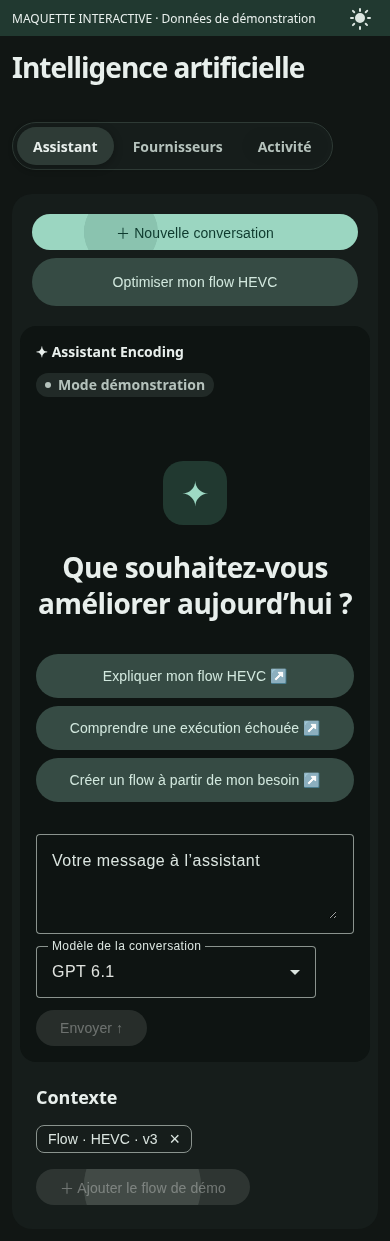
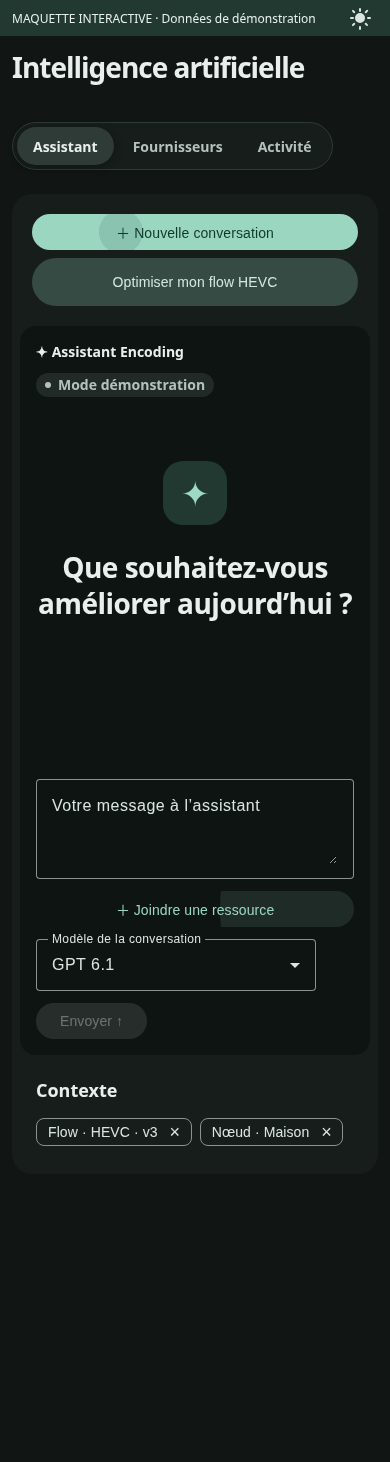
design(ai): replace suggestions with resource attachment picker

diff --git a/frontend/mockups/ai/mockup.html b/frontend/mockups/ai/mockup.html
@@ -49,13 +49,6 @@
                 <div class="spark">✦</div>
                 <h2>Que souhaitez-vous<br />améliorer aujourd’hui ?</h2>
               </div>
-              <div class="suggestions">
-                @for (suggestion of suggestions; track suggestion) {
-                  <button matButton="tonal" (click)="prompt.set(suggestion)">
-                    {{ suggestion }} ↗
-                  </button>
-                }
-              </div>
             } @else {
               <div class="bubble user">Comment optimiser mon flow HEVC sans perdre le HDR ?</div>
               <article class="answer">
@@ -93,6 +86,51 @@
                 (ngModelChange)="prompt.set($event)"
               ></textarea>
             </mat-form-field>
+            <button
+              matButton="text"
+              type="button"
+              [attr.aria-expanded]="resourcePickerOpen()"
+              aria-controls="resource-picker"
+              (click)="resourcePickerOpen.set(!resourcePickerOpen())"
+            >
+              ＋ Joindre une ressource
+            </button>
+            @if (resourcePickerOpen()) {
+              <section
+                id="resource-picker"
+                class="resource-picker"
+                aria-label="Joindre une ressource"
+              >
+                <mat-form-field appearance="outline" subscriptSizing="dynamic">
+                  <mat-label>Ressource</mat-label>
+                  <mat-select
+                    name="resource"
+                    [ngModel]="selectedResource()"
+                    (ngModelChange)="selectedResource.set($event)"
+                  >
+                    @for (group of resourceGroups; track group.label) {
+                      <mat-optgroup [label]="group.label">
+                        @for (resource of group.resources; track resource.id) {
+                          <mat-option
+                            [value]="resource.id"
+                            [disabled]="attachedResources().includes(resource.id)"
+                            >{{ resource.label }}</mat-option
+                          >
+                        }
+                      </mat-optgroup>
+                    }
+                  </mat-select>
+                </mat-form-field>
+                <button
+                  matButton="tonal"
+                  type="button"
+                  [disabled]="!selectedResource()"
+                  (click)="attachResource()"
+                >
+                  Joindre
+                </button>
+              </section>
+            }
             <div class="compose-actions">
               <mat-form-field appearance="outline" subscriptSizing="dynamic"
                 ><mat-label>Modèle de la conversation</mat-label
@@ -116,16 +154,18 @@
         <aside class="context">
           <h2>Contexte</h2>
           <mat-chip-set aria-label="Ressources attachées">
-            @if (context()) {
-              <mat-chip (removed)="context.set(false)"
-                >Flow · HEVC · v3<button matChipRemove aria-label="Retirer le flow du contexte">
+            @for (id of attachedResources(); track id) {
+              <mat-chip (removed)="removeResource(id)"
+                >{{ resourceLabel(id)
+                }}<button matChipRemove [attr.aria-label]="'Retirer ' + resourceLabel(id)">
                   ×
                 </button></mat-chip
               >
-            }</mat-chip-set
-          ><button matButton="tonal" [disabled]="context()" (click)="context.set(true)">
-            ＋ Ajouter le flow de démo
-          </button>
+            }
+          </mat-chip-set>
+          @if (!attachedResources().length) {
+            <p>Aucune ressource jointe</p>
+          }
         </aside>
       </div>
     }

diff --git a/frontend/mockups/ai/main.ts b/frontend/mockups/ai/main.ts
@@ -34,7 +34,42 @@ class AiMockup {
   readonly notice = inject(NotificationService);
   readonly tab = signal('assistant');
   readonly started = signal(false);
-  readonly context = signal(true);
+  readonly resourcePickerOpen = signal(false);
+  readonly selectedResource = signal('');
+  readonly attachedResources = signal<string[]>(['flow-hevc']);
+  readonly resourceGroups = [
+    {
+      label: 'Flows',
+      resources: [
+        { id: 'flow-hevc', label: 'Flow · HEVC · v3' },
+        { id: 'flow-audio', label: 'Flow · Normalisation audio · v1' },
+      ],
+    },
+    {
+      label: 'Nœuds',
+      resources: [
+        { id: 'node-maison', label: 'Nœud · Maison' },
+        { id: 'node-worker', label: 'Nœud · Worker GPU' },
+      ],
+    },
+    { label: 'Bibliothèques', resources: [{ id: 'library-films', label: 'Bibliothèque · Films' }] },
+    { label: 'Exécutions', resources: [{ id: 'execution-1042', label: 'Exécution · #1042' }] },
+  ];
+  resourceLabel(id: string) {
+    return (
+      this.resourceGroups.flatMap((group) => group.resources).find((resource) => resource.id === id)
+        ?.label ?? id
+    );
+  }
+  attachResource() {
+    const id = this.selectedResource();
+    if (!id || this.attachedResources().includes(id)) return;
+    this.attachedResources.update((resources) => [...resources, id]);
+    this.selectedResource.set('');
+  }
+  removeResource(id: string) {
+    this.attachedResources.update((resources) => resources.filter((resource) => resource !== id));
+  }
   readonly prompt = signal('');
   readonly messages = signal<string[]>([]);
   readonly model = signal('gpt-6.1');
@@ -67,11 +102,6 @@ class AiMockup {
       this.model.set(fallback?.id ?? '');
     }
   }
-  readonly suggestions = [
-    'Expliquer mon flow HEVC',
-    'Comprendre une exécution échouée',
-    'Créer un flow à partir de mon besoin',
-  ];
   send() {
     if (!this.prompt().trim()) return;
     this.messages.update((items) => [...items, this.prompt().trim()]);

diff --git a/frontend/mockups/ai/mockup.scss b/frontend/mockups/ai/mockup.scss
@@ -158,15 +158,6 @@ small {
   font-size: var(--font-display-md);
   margin-bottom: var(--space-5);
 }
-.suggestions {
-  display: grid;
-  gap: var(--space-2);
-}
-.suggestions button {
-  min-height: 44px;
-  height: auto;
-  text-align: left;
-}
 .composer {
   padding: var(--space-4);
   display: grid;
@@ -315,4 +306,15 @@ small {
   border-radius: var(--radius-lg);
   display: grid;
   gap: var(--space-4);
+}
+
+.resource-picker {
+  display: flex;
+  align-items: center;
+  gap: var(--space-3);
+  flex-wrap: wrap;
+}
+.resource-picker mat-form-field {
+  flex: 1;
+  min-width: 0;
 }

diff --git a/frontend/mockups/ai/README.md b/frontend/mockups/ai/README.md
@@ -12,7 +12,7 @@ npm exec ng build -- --configuration development --browser mockups/ai/main.ts --
 node mockups/serve.mjs dist/ai-mockup/browser 4318
 ```
 
-Ouvrir http://127.0.0.1:4318. Explorer les suggestions, envoyer un message simulé, ouvrir une conversation, retirer/rattacher le flow, naviguer entre les onglets et basculer le thème.
+Ouvrir http://127.0.0.1:4318. Saisir un message simulé, ouvrir une conversation, joindre ou retirer des ressources, naviguer entre les onglets et basculer le thème. Le bouton « Joindre une ressource » ouvre un sélecteur regroupant flows, nœuds, bibliothèques et exécutions. Les ressources déjà jointes ne peuvent pas être ajoutées en double.
 
 Vérification ciblée (serveur lancé) :
 
@@ -23,7 +23,7 @@ node mockups/ai/verify.cjs
 
 Ce script vérifie le parcours, l’absence de débordement horizontal à 390 px, les erreurs navigateur et l’accessibilité WCAG AA du thème clair sur mobile. Il produit les captures ordinateur et mobile. Les valeurs de quotas indisponibles restent explicitement indisponibles.
 
-L’intégration finale devra réutiliser les services IA et les confirmations existantes. Le sélecteur liste les modèles de démonstration par fournisseur (GPT 6.1, Claude Opus, Sonnet et Haiku) et reste accessible pendant la conversation. L’intégration devra alimenter la liste depuis les modèles disponibles et prendre en charge le changement de modèle côté backend. Les ressources de démonstration restent limitées à un flow pour cette proposition.
+L’intégration finale devra réutiliser les services IA et les confirmations existantes. Le sélecteur liste les modèles de démonstration par fournisseur (GPT 6.1, Claude Opus, Sonnet et Haiku) et reste accessible pendant la conversation. L’intégration devra alimenter la liste depuis les modèles disponibles et prendre en charge le changement de modèle côté backend. Les ressources proposées sont des exemples fictifs pour chaque catégorie.
 
 Pour générer le fichier HTML autonome après compilation : `node mockups/ai/package.mjs`.
 Le résultat est `dist/ai-mockup/browser/maquette-ia.html`.
